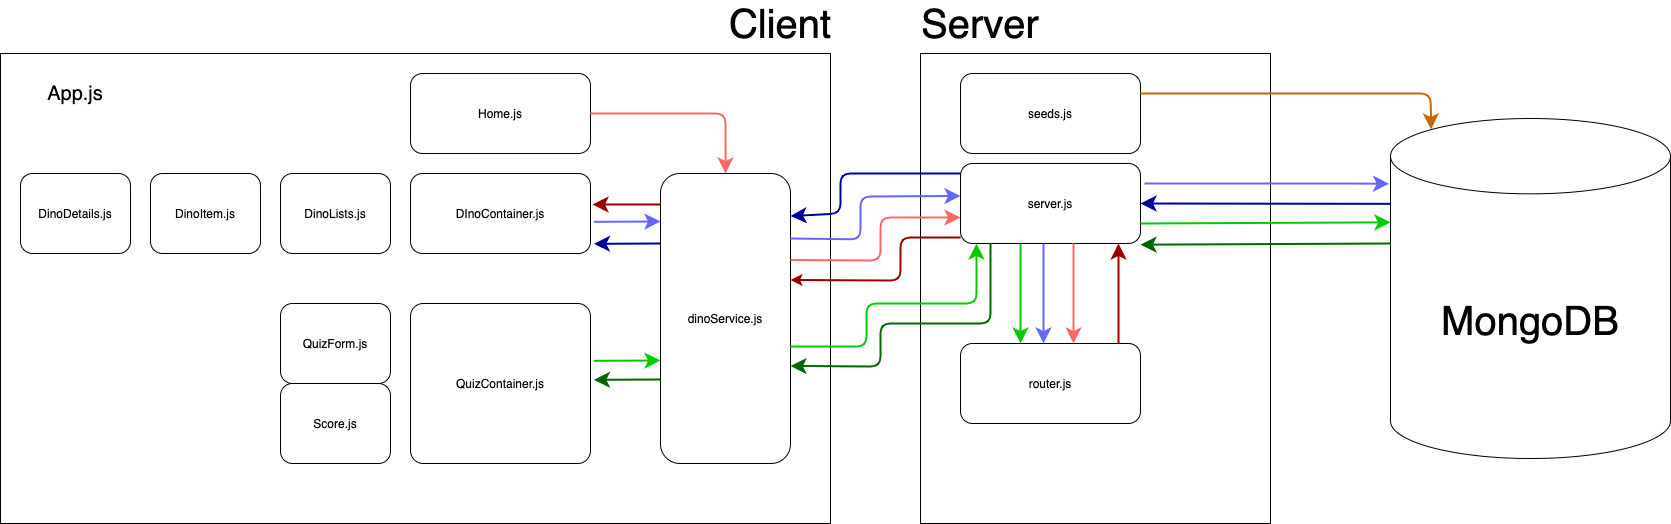
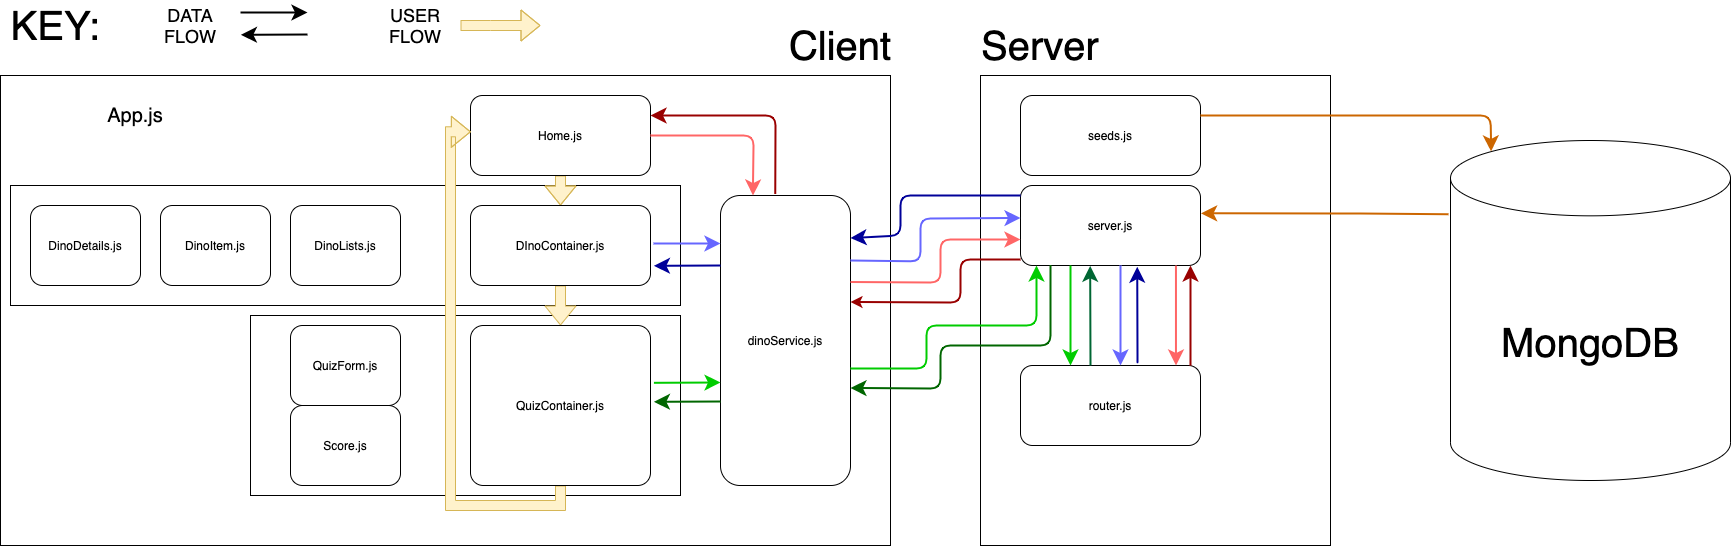
server.js and router_create.js completed and tested in insomnia

diff --git a/server/helpers/create_router.js b/server/helpers/create_router.js
@@ -1,0 +1,80 @@
+const express = require('express');
+const ObjectId = require('mongodb').ObjectId
+
+const createRouter = function(collection){
+    const router =express.Router();
+
+    router.get('/', (req, res) => {
+        collection.find()
+        .toArray()
+        .then((docs) => res.json(docs))
+        .catch((err) => {
+            console.error(err)
+            res.status(500)
+            res.json({status: 500, error:err})
+          })
+    })
+
+    router.get('/:id', (req, res) => {
+        const id = req.params.id
+        collection
+        .findOne({_id: ObjectId(id)})
+        .then((doc) => res.json(doc))
+        .catch((err) => {
+            console.error(err)
+            res.status(500)
+            res.json({status: 500, error:err})
+          })
+    })
+
+    router.post('/', (req, res) => {
+        const newData = req.body
+        collection
+        .insertOne(newData)
+        .then((result) => {
+            console.log('',result)
+            res.json(result.insertedId)
+        })
+        .catch((err) => {
+            console.error(err)
+            res.status(500)
+            res.json({status: 500, error:err})
+        })
+    })
+
+    router.delete('/:id', (req,res) =>{
+        const id = req.params.id
+        collection
+        .deleteOne({_id: ObjectId(id)})
+        .then((result) => {
+            res.json(result)
+        })
+        .catch((err) => {
+            console.error(err)
+            res.status(500)
+            res.json({status: 500, error:err})
+        })
+    })
+
+    router.put('/:id', (req, res) =>{
+        const id = req.params.id 
+        const updatedData = req.body
+        collection
+        .updateOne(
+            {_id: ObjectId(id)}, 
+            {$set: updatedData}
+        )
+        .then((result) => {
+            res.json(result)
+        })
+        .catch((err) => {
+            console.error(err)
+            res.status(500)
+            res.json({status: 500, error:err})
+        })
+    })
+
+    return router;
+}
+
+module.exports = createRouter;

diff --git a/server/server.js b/server/server.js
@@ -1,0 +1,22 @@
+const express = require('express');
+const app = express();
+const MongoClient= require('mongodb').MongoClient;
+const createRouter = require('./helpers/create_router.js')
+
+const cors = require('cors')
+
+app.use(express.json());
+app.use(cors())
+
+MongoClient.connect('mongodb://localhost:27017', {useUnifiedTopology: true})
+.then((client) => {
+    const db =client.db('dinos');
+    const dinosaursCollection = db.collection('dinosaurs');
+    const dinosaursRouter= createRouter(dinosaursCollection);
+    app.use('/api/dinosaurs', dinosaursRouter)
+})
+
+app.listen(5000, function (){
+    console.log(`listening on port ${ this.address().port}`);
+})
+

diff --git a/server/db/seeds.js b/server/db/seeds.js
@@ -1,4 +1,4 @@
-use dino
+use dinos
 
 db.dropDataBase()
 
